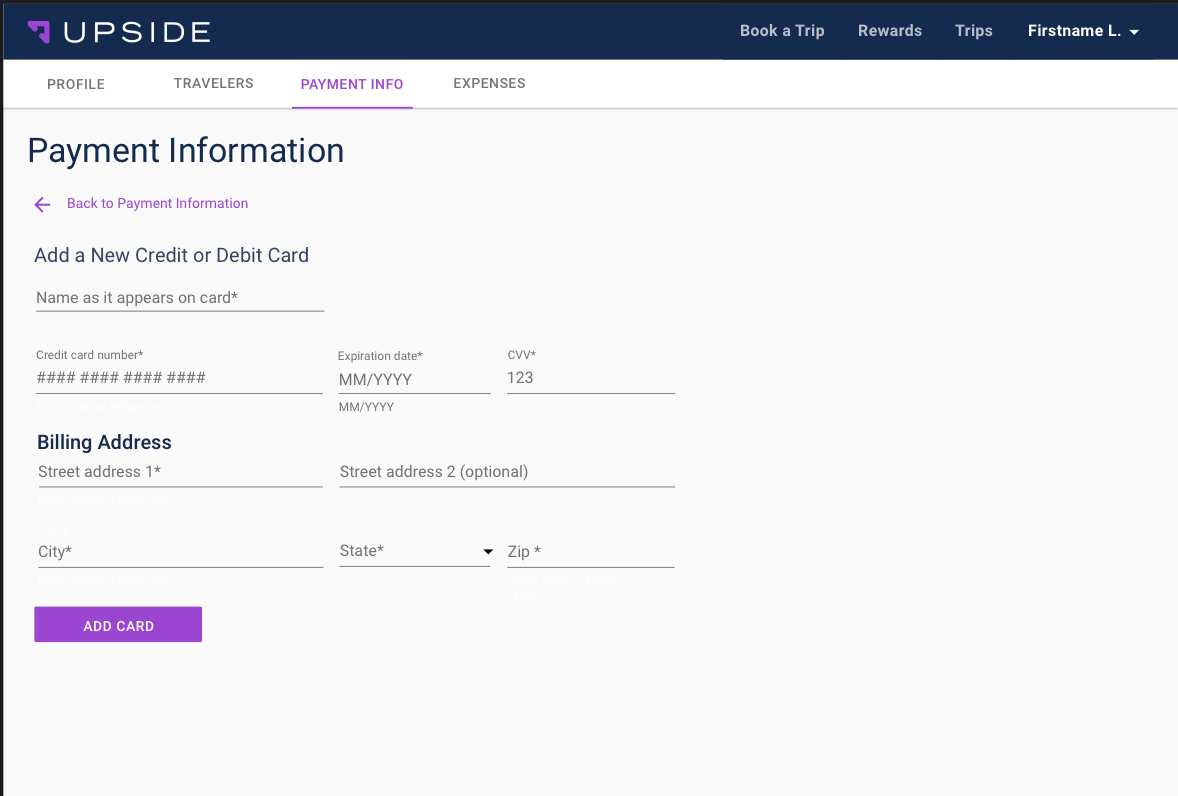
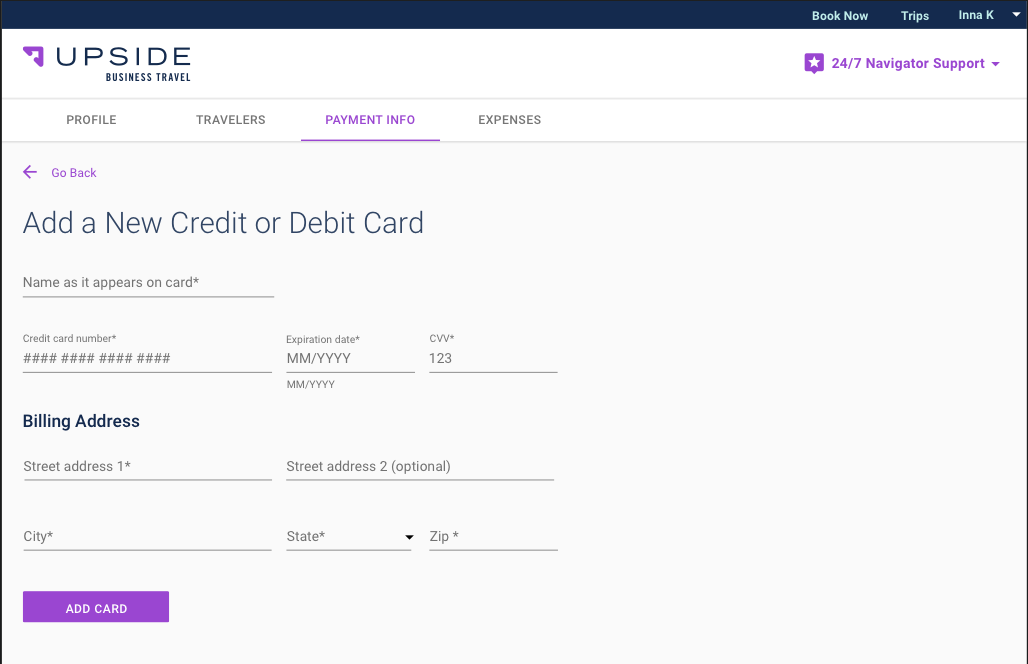
fixes

diff --git a/post3.html b/post3.html
@@ -79,20 +79,23 @@
       <div class="container">
         <div class="row">
           <div class="col-lg-8 col-md-10 mx-auto">
+            <img class="img-fluid" style="margin-bottom:20px;" src="img/Upside5.png" alt="">
             <h2 class="section-heading">Overview</h2>
-            <p>I wanted to design a feature that would allow users to seamlessly add and delete payment options under their profile and select between using an existing or adding a new payment option at checkout . In the current system users would have to contact an Upside Navigator (Upside’s personal customer service team) to add or delete credit cards on file, which normally took 24 hours to complete. With this feature the goal was to reduce the time from 24 hours to 24 seconds, therefore reducing frustrations and improving the overall booking experience for the user. 
-
-            <p>
+            <p>I wanted to design a feature that would allow users to seamlessly view, add, and delete payment options under their profile while also being able to select between using an existing payment option or adding a new one at checkout. In the current system, users can only add payment options during the checkout process.
+            </p>
+            <img class="img-fluid" style="margin-bottom:20px;" src="img/Upside4.png" alt="">
+            <p>In order to delete a payment option, users have to contact an Upside Navigator (Upside’s personal customer service team) who then create an internal ticket for the data team to approve. The goal of this feature was to reduce the time from 24 hours to 24 seconds, therefore reducing frustrations and improving the overall booking experience for the user. 
+            </p>
             <h2 class="section-heading">Challenge</h2>
-            <p>The challenge of this feature was working within the technical constraints of the project. Upside operates on the agile software development approach, therefore the scope of the project would be limited to one sprint. Because of this, it was important to understand the customer needs to make sure the main pain points were addressed through the feature. </p>
+            <p>The challenge of this feature was working within the technical constraints of the project. Upside operates on the agile software development approach, therefore the scope of the project would be limited to one sprint. Because of this, it was important to understand the user needs to make sure the main pain points were addressed through the feature. Additionally, I had to work within the existing design guidelines. </p>
             <h2 class="section-heading">The Market</h2>
-            <p>I did competitive analysis to establish the baseline features ecommerce shops and travel sites used to help users view and manage their payment options.</p>
+            <p>I did competitive research to establish the baseline features ecommerce shops and travel sites used to help users view and manage their payment options.</p>
             <p>After exploring multiple online vendors, I established that across all platforms users were able to </p>
             <ul>
               <li>view existing payment options under profile ‘Payment Information’</li>
               <li>delete, add and edit payment options under a ‘Payment Information’ tab in their profile </li>
               <li>add new payment option or use existing payment methods at checkout </li>
-              <li>Set a default payment option </li>
+              <li>set a default payment option </li>
             </ul>
               <p>The features that were common but were not consistently used </p>
             <ul>
@@ -103,12 +106,12 @@
             </ul>
             <h2 class="section-heading">Stakeholder Interviews</h2>
 
-            <p>Multiple rounds of stakeholder interviews were conducted throughout the design process to understand customer needs as well as engineering and security constraints associated with the project before ideating began. </p>
+            <p>Multiple rounds of stakeholder interviews were conducted throughout the design process to understand customer needs as well as engineering and security constraints associated with the project.</p>
             <h5>Quality and Training Team </h5>
-            <p>This feature suggestion originated from the quality and training team, who work with the 24/7 customer service team, the navigators. The quality and training team was able to provide insight on the current system on managing payment options as well as insights on customer pain points. In the current system, Upside customers would have to contact a navigator to delete a card off their profile. The navigators would create a ticket for customer service who would then notify the data team. Speaking with the quality and training team the main pain point customers were experiencing was the inability to view all their payment options and the ability to delete payment options. </p>
+            <p>This feature suggestion originated from the quality and training team, who work with the 24/7 customer service team, the navigators. The quality and training team was able to provide insight on the current system of managing payment options as well as insights on customer pain points. In the current system, Upside customers would have to contact a navigator to delete a card off their profile. The navigators would create a ticket for customer service who would then notify the data team. Speaking with the quality and training team the main pain point customers were experiencing was the inability to view all their payment options and the ability to delete payment options. </p>
 
             <h5>Engineering </h5>
-            <p>Working within the agile development approach, meeting with the engineering team early was critical in ensuring that the designs I had produced would get built. After the meeting, features that were initially considered baseline became out of scope because of technical constraints. The technical constraints were tied to Upside’s payment data storage provider, BrainTree, and the constraints that exist within it. </p>
+            <p>Working within the agile development approach, meeting with the engineering team early was critical in ensuring that the designs I had produced would get built. After the meeting, features that were initially considered baseline became out of scope because of technical constraints. The technical constraints were tied to Upside’s payment data storage provider, BrainTree, and the constraints that exist within it.</p>
 
             <h5> Design </h5>
             <p>Being an intern it’s important to consult with other designers to ensure that my designs followed the brand guidelines. Throughout the design process I met with multiple senior designers and participated in design critiques to ensure that my designs were consistent with the product. </p>
@@ -116,15 +119,13 @@
 
             <h2 class="section-heading">Digital Prototypes</h2>
             <img class="img-fluid" style="margin-bottom:20px;" src="img/Upside1.png" alt="">
-            <br>
-            <img class="img-fluid" style="margin-bottom:20px;" src="img/Upside2.png" alt="">
-            <br>
             <img class="img-fluid" style="margin-bottom:20px;" src="img/Upside3.png" alt="">
+            <img class="img-fluid" style="margin-bottom:20px;" src="img/Upside2.png" alt="">
               
             <h2 class="section-heading">User Testing</h2>
 
-            <p>The feature was tested on ten Upside travelers recruited through a Qualaroo survey provided at checkout. Users were able to seamlessly find the ‘Payment Info’ tab and add and delete payment options under their account features. Users also seamlessly navigated between adding new payment options and using existing payment options at checkout. </p>
-            <p>Multiple users vocalized feature changes that were considered in the original designs but had to be removed due to technical constraints. These include being able to edit at checkout and adding a card nickname to be better able to distinguish between credit cards on file. These suggestions are noted will be incorporated into future designs. </p>
+            <p>The feature was tested on ten Upside travelers recruited through a Qualaroo survey provided at checkout. Users were able to seamlessly find the ‘Payment Info’ tab and add and delete payment options under their account features. Users also seamlessly navigated between adding new payment options and using existing payment options at checkout.</p>
+            <p>Multiple users vocalized feature changes that were considered in the original designs but had to be removed due to technical constraints. These include being able to edit at checkout and adding a card nickname to be better able to distinguish between credit cards on file. These suggestions were noted will be incorporated into future designs.</p>
           </div>
         </div>
       </div>
